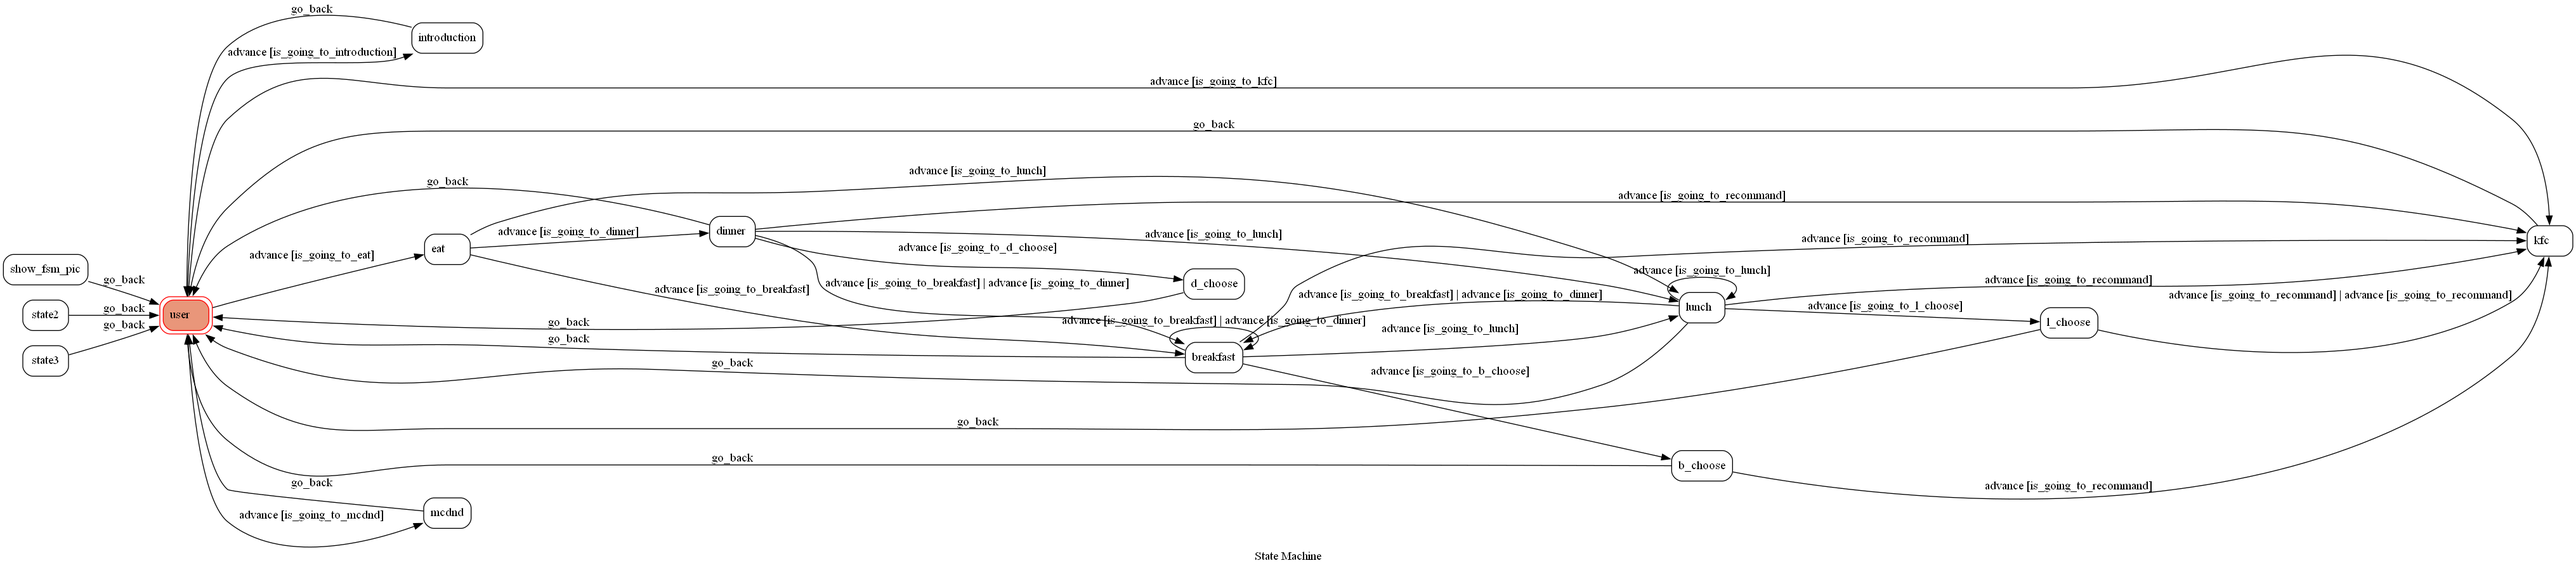
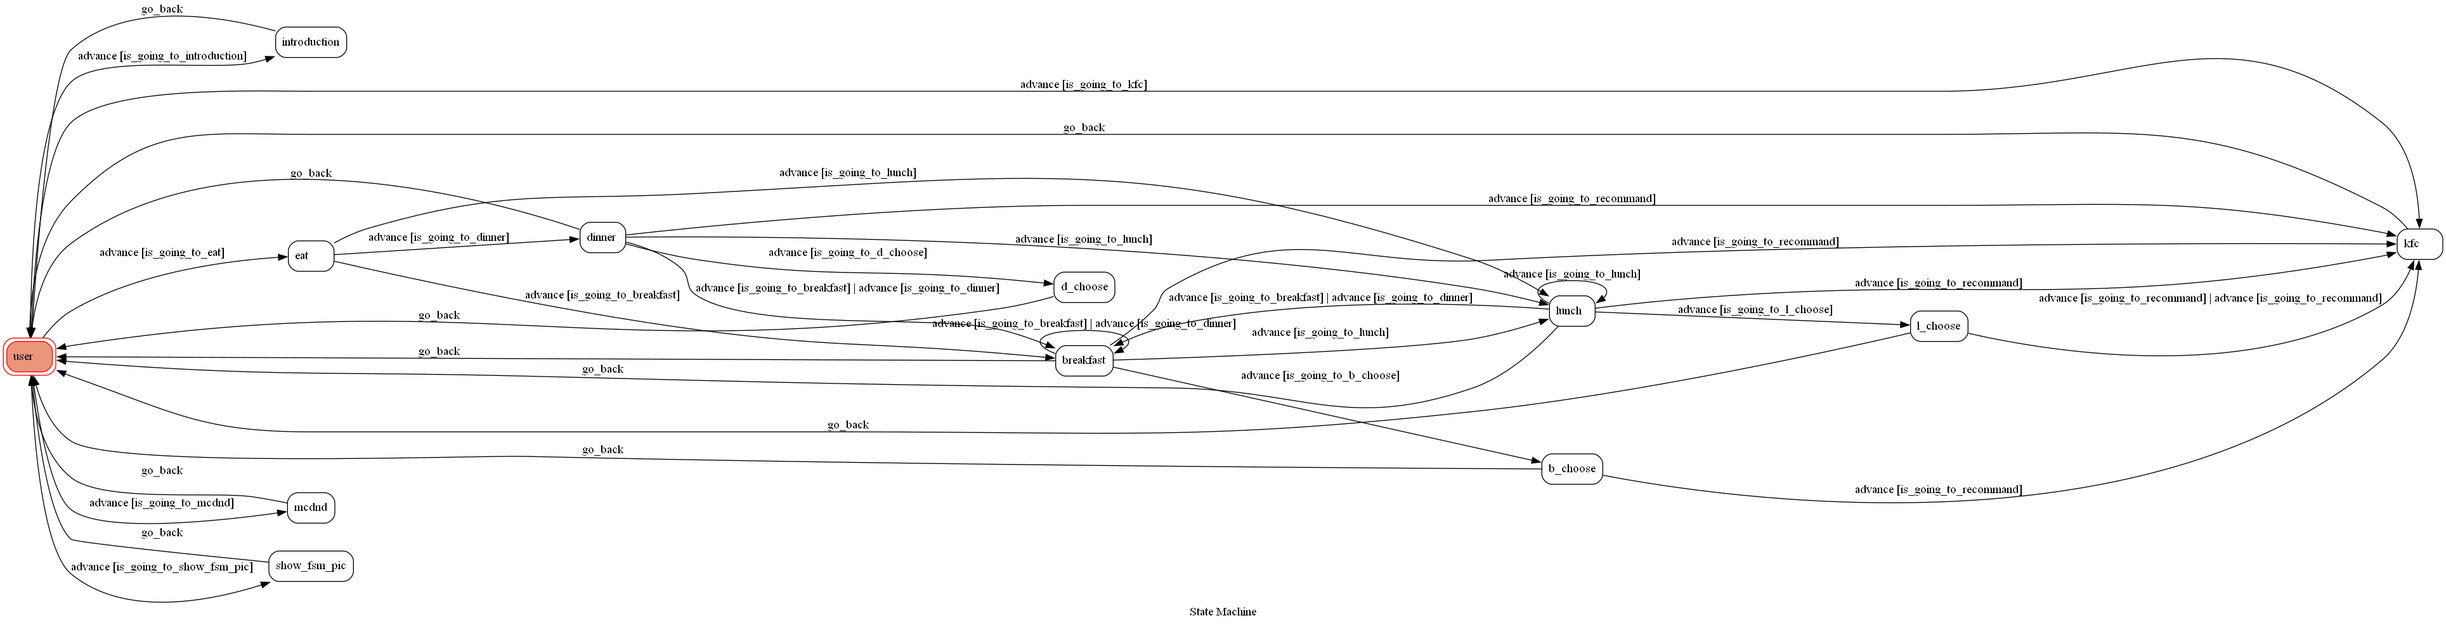
Add files via upload
state "show_fsm_pic" added

diff --git a/fsm.py b/fsm.py
@@ -14,7 +14,9 @@ from linebot.models import (
 from transitions.extensions import GraphMachine
 from initial import app
 from utils import send_text_message,send_button_message,send_button_carousel_l,send_button_carousel_bf,send_button_carousel_d,line_bot_api
-#import pyimgur
+import pyimgur
+channel_access_token = os.getenv("LINE_CHANNEL_ACCESS_TOKEN", None)
+
 
 class TocMachine(GraphMachine):
     def __init__(self, **machine_configs):
@@ -63,6 +65,10 @@ class TocMachine(GraphMachine):
         text = event.message.text
         return text == '有甚麼推薦的'
     
+    def is_going_to_show_fsm_pic(self, event):
+        text = event.message.text
+        return text == 'fsm'
+    
     def is_going_to_kfc(self, event):
         text = event.message.text
         return text == '肯德基' or text == '肯得基' or text == '肯德雞'
@@ -74,10 +80,19 @@ class TocMachine(GraphMachine):
     def on_enter_introduction(self, event):
         print("I'm entering introduction")
         reply_token = event.reply_token
-        message = "每餐吃什麼這個問題，從大學生活\n就開始啦！\n萬年不變的煩惱，由我來幫你解決!\n\n 請打 \"說明\" 會有使用資訊 \n 請打 \"肚子餓了\"或\"go\" 會有早餐、午餐、晚餐時段，再請依照推薦進行選擇~\n 請打\"fsm\"會輸出本系統fsm圖片"
+        message = "每餐吃什麼這個問題，從大學生活\n就開始啦！\n萬年不變的煩惱，由我來幫你解決!\n\n 請打 \"說明\" 會有使用資訊 \n 請打 \"肚子餓了\"或\"go\" 會有早餐、午餐、晚餐時段選擇，選取後再請依照推薦進行選擇~\n 請打\"fsm\"會輸出本系統fsm圖片"
         #message_to_reply = FlexSendMessage("說明", message)
[1 lines of base64/hex data omitted]
         line_bot_api.reply_message(reply_token,TextSendMessage(text=message))
+        self.go_back()
+    ##
+    def on_enter_show_fsm_pic(self, event):
+        print("I'm entering show_fsm_pic")
+        reply_token = event.reply_token
+        line_bot_api = LineBotApi(channel_access_token)
+        line_bot_api.reply_message(reply_token,ImageSendMessage(
+                original_content_url=r'https://i.imgur.com/22zqkjP.png',
+                preview_image_url=r'https://i.imgur.com/22zqkjP.png'))
         self.go_back()
 
     def on_enter_eat(self, event):
@@ -88,7 +103,7 @@ class TocMachine(GraphMachine):
     
 
     def on_enter_breakfast(self, event):
-        print("I'm entering state2")
+        print("I'm entering breakfast")
         reply_token = event.reply_token
         message = "想要吃早餐"
         #message_to_reply = FlexSendMessage("說明", message)
@@ -104,7 +119,7 @@ class TocMachine(GraphMachine):
 
 
     def on_enter_lunch(self, event):
-        print("I'm entering state3")
+        print("I'm entering lunch")
         reply_token = event.reply_token
         send_button_carousel_l(reply_token)
 

diff --git a/app.py b/app.py
@@ -25,12 +25,10 @@ handler = WebhookHandler('f80fb07f8c69a68601586a99c1be4f5d')
 
 
 
-
-
 from transitions import Machine
 from fsm import TocMachine
 machine = TocMachine(
-    states=["user", "introduction", "eat", "kfc", "mcdnd", "breakfast", "lunch", "dinner", "l_choose", "b_choose", "d_choose"],
+    states=["user", "introduction", "eat", "kfc", "mcdnd", "breakfast", "lunch", "dinner", "l_choose", "b_choose", "d_choose","show_fsm_pic"],
     transitions=[
         {
             "trigger": "advance",
@@ -103,6 +101,12 @@ machine = TocMachine(
             "source": "lunch",
             "dest": "l_choose",
             "conditions": "is_going_to_l_choose",
+        },
+        {
+            "trigger": "advance",
+            "source": "user",
+            "dest": "show_fsm_pic",
+            "conditions": "is_going_to_show_fsm_pic",
         },  
         {
             "trigger": "advance",
@@ -116,7 +120,7 @@ machine = TocMachine(
             "dest": "kfc",
             "conditions": "is_going_to_recommand",
         },
-        {"trigger": "go_back", "source": ["introduction", "show_fsm_pic", "state2","state3","kfc","mcdnd","breakfast","lunch","dinner","l_choose","b_choose","d_choose"], "dest": "user"},
+        {"trigger": "go_back", "source": ["introduction", "show_fsm_pic","kfc","mcdnd","breakfast","lunch","dinner","l_choose","b_choose","d_choose"], "dest": "user"},
 
     ],
     initial="user",
